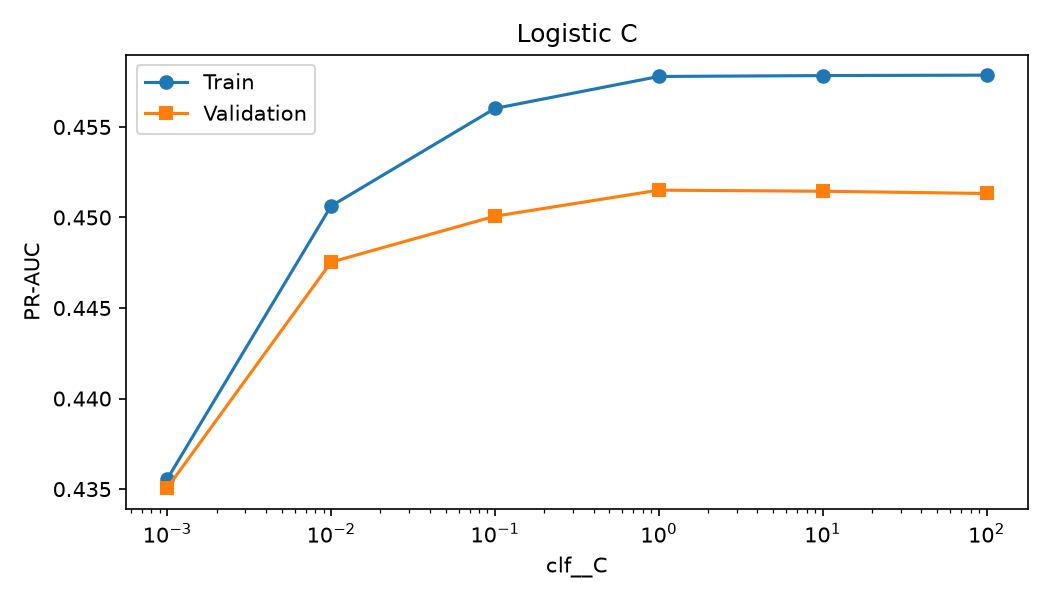
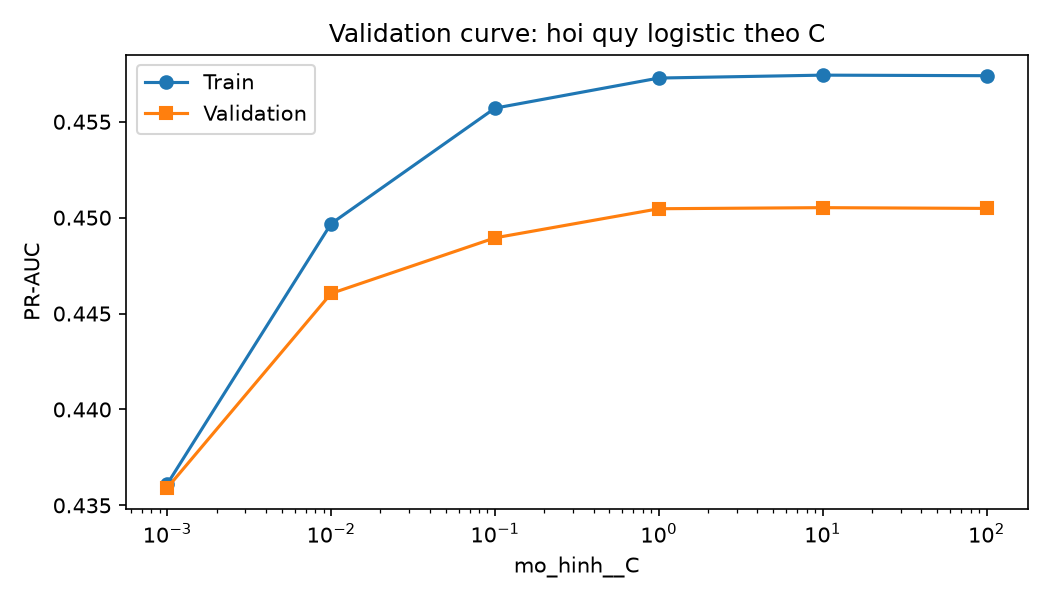
Sua train.py theo review PR 6: dung pipeline chung

diff --git a/src/train.py b/src/train.py
@@ -3,14 +3,9 @@ from pathlib import Path
 
 import joblib
 import numpy as np
-from sklearn.compose import ColumnTransformer, make_column_selector
-from sklearn.impute import SimpleImputer
-from sklearn.linear_model import LogisticRegression
-from sklearn.pipeline import Pipeline
-from sklearn.preprocessing import OneHotEncoder, StandardScaler
-from sklearn.tree import DecisionTreeClassifier
+import pandas as pd
 
-from src.data import RANDOM_STATE, load_dataset, split_train_test
+from src.data import load_dataset, split_train_test
 from src.evaluate import (
     analyze_errors,
     eval_cv,
@@ -20,49 +15,42 @@ from src.evaluate import (
     plot_test_reports,
     run_grid,
 )
-from src.features import DEFAULT_FEATURES, make_feature_step
+from src.pipeline import ALL_FEATURES, DATA_CLEANING, build_pipeline, make_model
 
-MODELS_DIR = Path(__file__).resolve().parents[1] / "models"
-
-
-def build_prep():
-    num_pipe = Pipeline([
-        ("imp", SimpleImputer(strategy="median")),
-        ("sc", StandardScaler()),
-    ])
-    cat_pipe = Pipeline([
-        ("imp", SimpleImputer(missing_values="unknown", strategy="most_frequent")),
-        ("ohe", OneHotEncoder(handle_unknown="ignore")),
-    ])
-    return ColumnTransformer([
-        ("num", num_pipe, make_column_selector(dtype_include="number")),
-        ("cat", cat_pipe, make_column_selector(dtype_exclude="number")),
-    ])
-
-
-def make_pipe(clf, feat_names=DEFAULT_FEATURES):
-    return Pipeline([
-        ("feat", make_feature_step(feat_names)),
-        ("prep", build_prep()),
-        ("clf", clf),
-    ])
+ROOT = Path(__file__).resolve().parents[1]
+MODELS_DIR = ROOT / "models"
+RESULTS_PATH = ROOT / "reports" / "ket_qua_mo_hinh.csv"
+FEATURE_SUBSETS = {
+    "4. Chon dac trung: chi xu ly du lieu": DATA_CLEANING,
+    "4. Chon dac trung: bo log_campaign": ("contacted_before", "age_group", "drop_pdays"),
+    "4. Chon dac trung: day du": ALL_FEATURES,
+}
+LOGISTIC_GRID = {
+    "mo_hinh__C": [0.01, 0.05, 0.1, 0.5, 1.0, 5.0, 10.0, 50.0],
+    "mo_hinh__class_weight": [None, "balanced"],
+}
+TREE_GRID = {
+    "mo_hinh__max_depth": [4, 6, 8, 10, 12],
+    "mo_hinh__min_samples_leaf": [10, 20, 50, 100],
+    "mo_hinh__class_weight": [None, "balanced"],
+}
 
 
 def compare_features(X_train, y_train):
-    subsets = {
-        "4_No_Feat": (),
-        "4_Core_Feat": ("contacted_before", "age_group", "drop_pdays"),
-        "4_All_Feat": DEFAULT_FEATURES,
-    }
-    for label, names in subsets.items():
-        pipe = make_pipe(LogisticRegression(C=5.0, max_iter=1000, random_state=RANDOM_STATE), names)
-        sc, _ = eval_cv(pipe, X_train, y_train)
-        print(f"{label}: PR-AUC = {sc:.4f}")
+    rows = []
+    for label, names in FEATURE_SUBSETS.items():
+        pipe = build_pipeline(make_model("logistic", C=5.0), features=names)
+        score, std = eval_cv(pipe, X_train, y_train)
+        print(f"{label}: PR-AUC = {score:.4f}")
+        rows.append({"phien_ban": label, "mo_hinh": "Hoi quy logistic", "pr_auc": score, "pr_auc_std": std})
+    best = max(rows, key=lambda row: row["pr_auc"])
+    print(f"Chon: {best['phien_ban']}")
+    return rows, FEATURE_SUBSETS[best["phien_ban"]]
 
 
 def print_top_features(pipe, top_n=8):
-    names = pipe.named_steps["prep"].get_feature_names_out()
-    coefs = pipe.named_steps["clf"].coef_[0]
+    names = pipe.named_steps["tien_xu_ly"].get_feature_names_out()
+    coefs = pipe.named_steps["mo_hinh"].coef_[0]
     order = np.argsort(np.abs(coefs))[::-1][:top_n]
     for idx in order:
         print(f"  {names[idx]}: {coefs[idx]:+.4f}")
@@ -78,16 +66,23 @@ def main():
     X, y = load_dataset(keep_duration=False)
     X_train, X_test, y_train, y_test = split_train_test(X, y)
 
-    compare_features(X_train, y_train)
+    rows, features = compare_features(X_train, y_train)
 
-    log_grid = {"clf__C": [0.05, 0.1, 0.5, 1.0, 5.0], "clf__class_weight": [None, "balanced"]}
-    best_log, log_params, log_sc = run_grid(make_pipe(LogisticRegression(max_iter=1000, random_state=RANDOM_STATE)), log_grid, X_train, y_train)
+    log_pipe = build_pipeline(make_model("logistic"), features=features)
+    best_log, log_params, log_sc = run_grid(log_pipe, LOGISTIC_GRID, X_train, y_train)
 
-    tree_grid = {"clf__max_depth": [4, 5, 6, 7, 8], "clf__min_samples_leaf": [10, 20, 50], "clf__class_weight": [None, "balanced"]}
-    best_tree, tree_params, tree_sc = run_grid(make_pipe(DecisionTreeClassifier(random_state=RANDOM_STATE)), tree_grid, X_train, y_train)
+    tree_pipe = build_pipeline(make_model("tree"), features=features)
+    best_tree, tree_params, tree_sc = run_grid(tree_pipe, TREE_GRID, X_train, y_train)
 
-    print(f"5_Best_Logistic: PR-AUC = {log_sc:.4f} | {log_params}")
-    print(f"5_Best_Tree: PR-AUC = {tree_sc:.4f} | {tree_params}")
+    print(f"5-6. Best_Logistic: PR-AUC = {log_sc:.4f} | {log_params}")
+    print(f"5-6. Best_Tree: PR-AUC = {tree_sc:.4f} | {tree_params}")
+    for name, score, params in (("Hoi quy logistic", log_sc, log_params), ("Cay quyet dinh", tree_sc, tree_params)):
+        rows.append({
+            "phien_ban": "5-6. Tinh chinh + class_weight",
+            "mo_hinh": name,
+            "pr_auc": score,
+            "tham_so": str(params),
+        })
 
     best_pipe = best_log if log_sc >= tree_sc else best_tree
     best_thresh, cv_f1 = find_best_threshold(best_pipe, X_train, y_train)
@@ -95,10 +90,26 @@ def main():
 
     best_pipe.fit(X_train, y_train)
     probs = best_pipe.predict_proba(X_test)[:, 1]
-    print(f"Test_Result: {eval_test(best_pipe, X_test, y_test, best_thresh)}")
-    print(f"Top_20_Percent: {eval_top_k(y_test, probs, ratio=0.2)}")
-    print("Top_Features:")
-    print_top_features(best_pipe)
+    test_result = eval_test(best_pipe, X_test, y_test, best_thresh)
+    top_k = eval_top_k(y_test, probs, ratio=0.2)
+    print(f"Test_Result: {test_result}")
+    print(f"Top_20_Percent: {top_k}")
+    rows.append({
+        "phien_ban": "Ket qua tren tap test",
+        "mo_hinh": "Mo hinh cuoi",
+        "pr_auc": test_result["pr_auc"],
+        "nguong": best_thresh,
+        "f1": test_result["f1"],
+        "precision": test_result["precision"],
+        "recall": test_result["recall"],
+        "recall_goi_20": top_k["recall_at_20"],
+    })
+    RESULTS_PATH.parent.mkdir(parents=True, exist_ok=True)
+    pd.DataFrame(rows).round(4).to_csv(RESULTS_PATH, index=False)
+
+    if hasattr(best_pipe.named_steps["mo_hinh"], "coef_"):
+        print("Top_Features:")
+        print_top_features(best_pipe)
 
     errors = analyze_errors(X_test, y_test, probs, best_thresh)
     print(f"Errors: FP = {errors['fp_count']}, FN = {errors['fn_count']}")

diff --git a/notebooks/duong_cong.py b/notebooks/duong_cong.py
@@ -1,0 +1,31 @@
+import numpy as np
+
+from src.data import load_dataset, split_train_test
+from src.evaluate import plot_learn_curve, plot_val_curve
+from src.pipeline import ALL_FEATURES, build_pipeline, make_model
+
+
+def main():
+    X, y = load_dataset(keep_duration=False)
+    X_train, X_test, y_train, y_test = split_train_test(X, y)
+    logistic = build_pipeline(make_model("logistic"), features=ALL_FEATURES)
+    tree = build_pipeline(make_model("tree"), features=ALL_FEATURES)
+
+    plot_val_curve(
+        logistic, X_train, y_train, "mo_hinh__C", np.logspace(-3, 2, 6),
+        "Validation curve: hoi quy logistic theo C", "val_logistic_C.png", is_log=True,
+    )
+    plot_val_curve(
+        tree, X_train, y_train, "mo_hinh__max_depth", [2, 4, 6, 8, 10, 12, 15, 20],
+        "Validation curve: cay quyet dinh theo max_depth", "val_tree_depth.png",
+    )
+    plot_learn_curve(logistic, X_train, y_train, "Learning curve: hoi quy logistic", "learn_logistic.png")
+    plot_learn_curve(
+        tree.set_params(mo_hinh__max_depth=8), X_train, y_train,
+        "Learning curve: cay quyet dinh (max_depth = 8)", "learn_tree.png",
+    )
+    print("Da luu 4 hinh vao reports/figures")
+
+
+if __name__ == "__main__":
+    main()

diff --git a/src/evaluate.py b/src/evaluate.py
@@ -51,7 +51,7 @@ def evaluate_cv(pipeline, X, y):
 
 
 def get_cv(n_splits=5):
-    return StratifiedKFold(n_splits=n_splits, shuffle=True, random_state=42)
+    return StratifiedKFold(n_splits=n_splits, shuffle=True, random_state=RANDOM_STATE)
 
 
 def eval_cv(model, X, y):

diff --git a/docs/huong_dan_api_demo.md b/docs/huong_dan_api_demo.md
@@ -39,7 +39,7 @@ Gửi (không có `duration`):
 Nhận:
 
 ```json
-{"probability": 0.0640, "prediction": "no", "threshold": 0.1941}
+{"probability": 0.0654, "prediction": "no", "threshold": 0.193}
 ```
 
 ## Kiểm tra dữ liệu đầu vào
